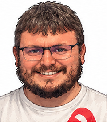
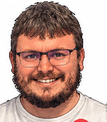
update glitch dispositivos moviles.

diff --git a/style.css b/style.css
@@ -106,6 +106,7 @@ body.crt-effect * {
   height: 975px;
   transform-origin: top center;
   margin: 0 auto;
+  overflow: hidden;
 }
 
 @keyframes jitter {
@@ -1934,8 +1935,8 @@ body.crt-effect * {
 
 /* ===== ImageCarousel.module.scss ===== */
 .projects-carousel-overlay {
-  position: fixed;
-  inset: -1000px;
+  position: absolute;
+  inset: 0;
   z-index: 40;
   display: flex;
   align-items: center;
